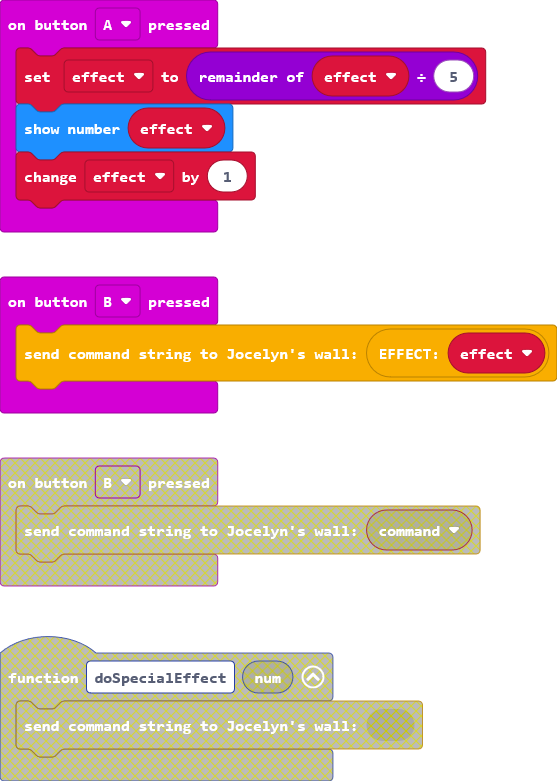
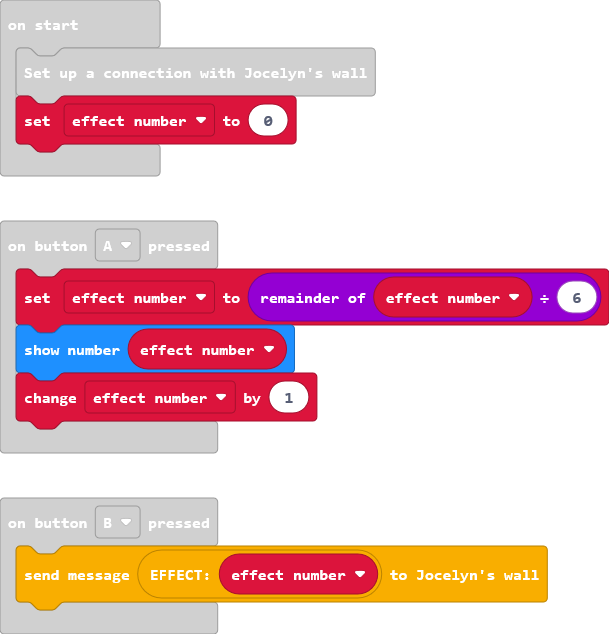
improved API

diff --git a/lights.ts b/lights.ts
@@ -6,6 +6,7 @@
 /**
  * JC lights blocks
  */
+//% groups=['Messages']
 //% weight=1000 color=#f9ae00 icon=""
 namespace jC_Lights {
 
@@ -25,14 +26,14 @@ namespace jC_Lights {
      * over bluetooth and serial channels
      */
     //% help=functions/command
-    //% block="send command string to Jocelyn's wall: %command"
-    export function sendWallCommand(command: string): void {
-        radio.sendString(command)
-        serial.writeLine(command)
+    //% block="send message %message to Jocelyn's wall"
+    export function sendWallCommand(message: string): void {
+        radio.sendString(message)
+        serial.writeLine(message)
     }
 
     /**
-     * A command string to send to Jocelyn's wall.
+     * A message string to send to Jocelyn's wall.
      * 0 = Rainbow
      * 1 = Rainbow with Glitter
      * 2 = Confetti
@@ -41,6 +42,7 @@ namespace jC_Lights {
      * 5 = Juggling Dots
      */
     //% help=choose an effect number to send as a string command
+    //% group="Messages"
     //% block="EFFECT:%num"
     export function doSpecialEffect(num: number) {
         return "EFFECT:" + num

diff --git a/main.ts b/main.ts
@@ -1,11 +1,11 @@
 input.onButtonPressed(Button.A, function () {
-    effect = effect % 5
-    basic.showNumber(effect)
-    effect += 1
+    effect_number = effect_number % 6
+    basic.showNumber(effect_number)
+    effect_number += 1
 })
 input.onButtonPressed(Button.B, function () {
-    jC_Lights.sendWallCommand(jC_Lights.doSpecialEffect(effect))
+    jC_Lights.sendWallCommand(jC_Lights.doSpecialEffect(effect_number))
 })
-let effect = 0
+let effect_number = 0
 jC_Lights.setWallConnection()
-effect = 0
+effect_number = 0
